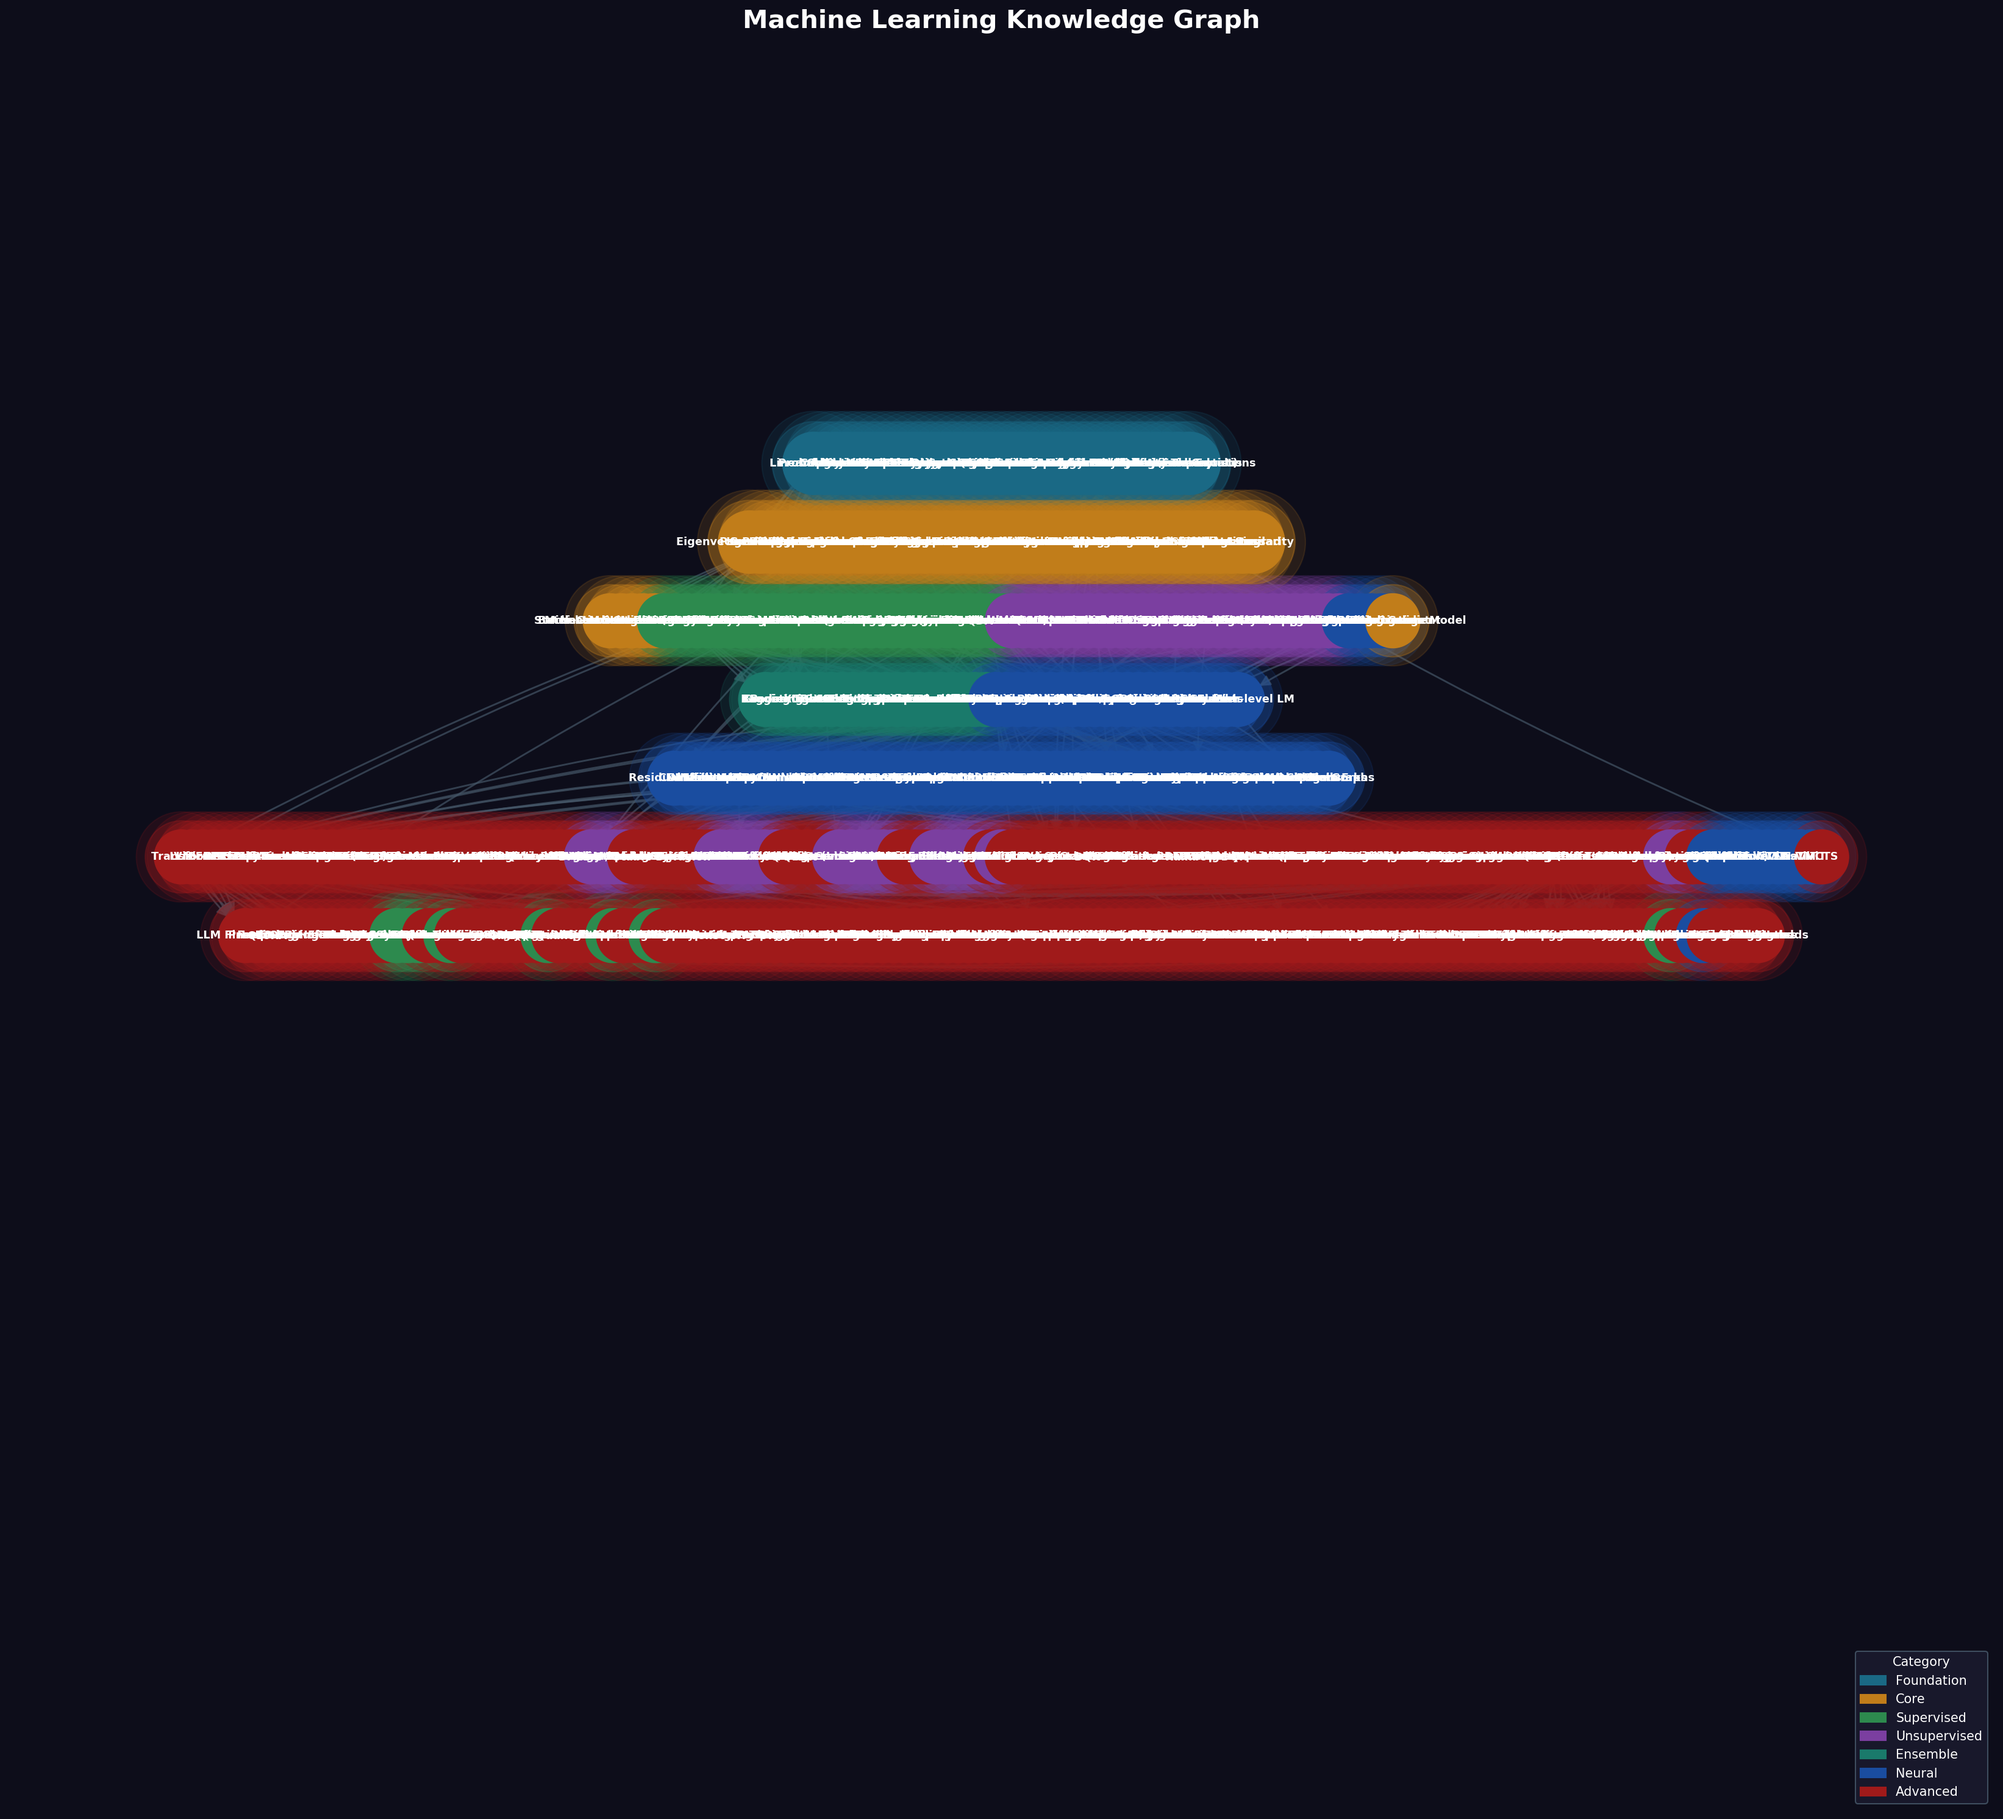
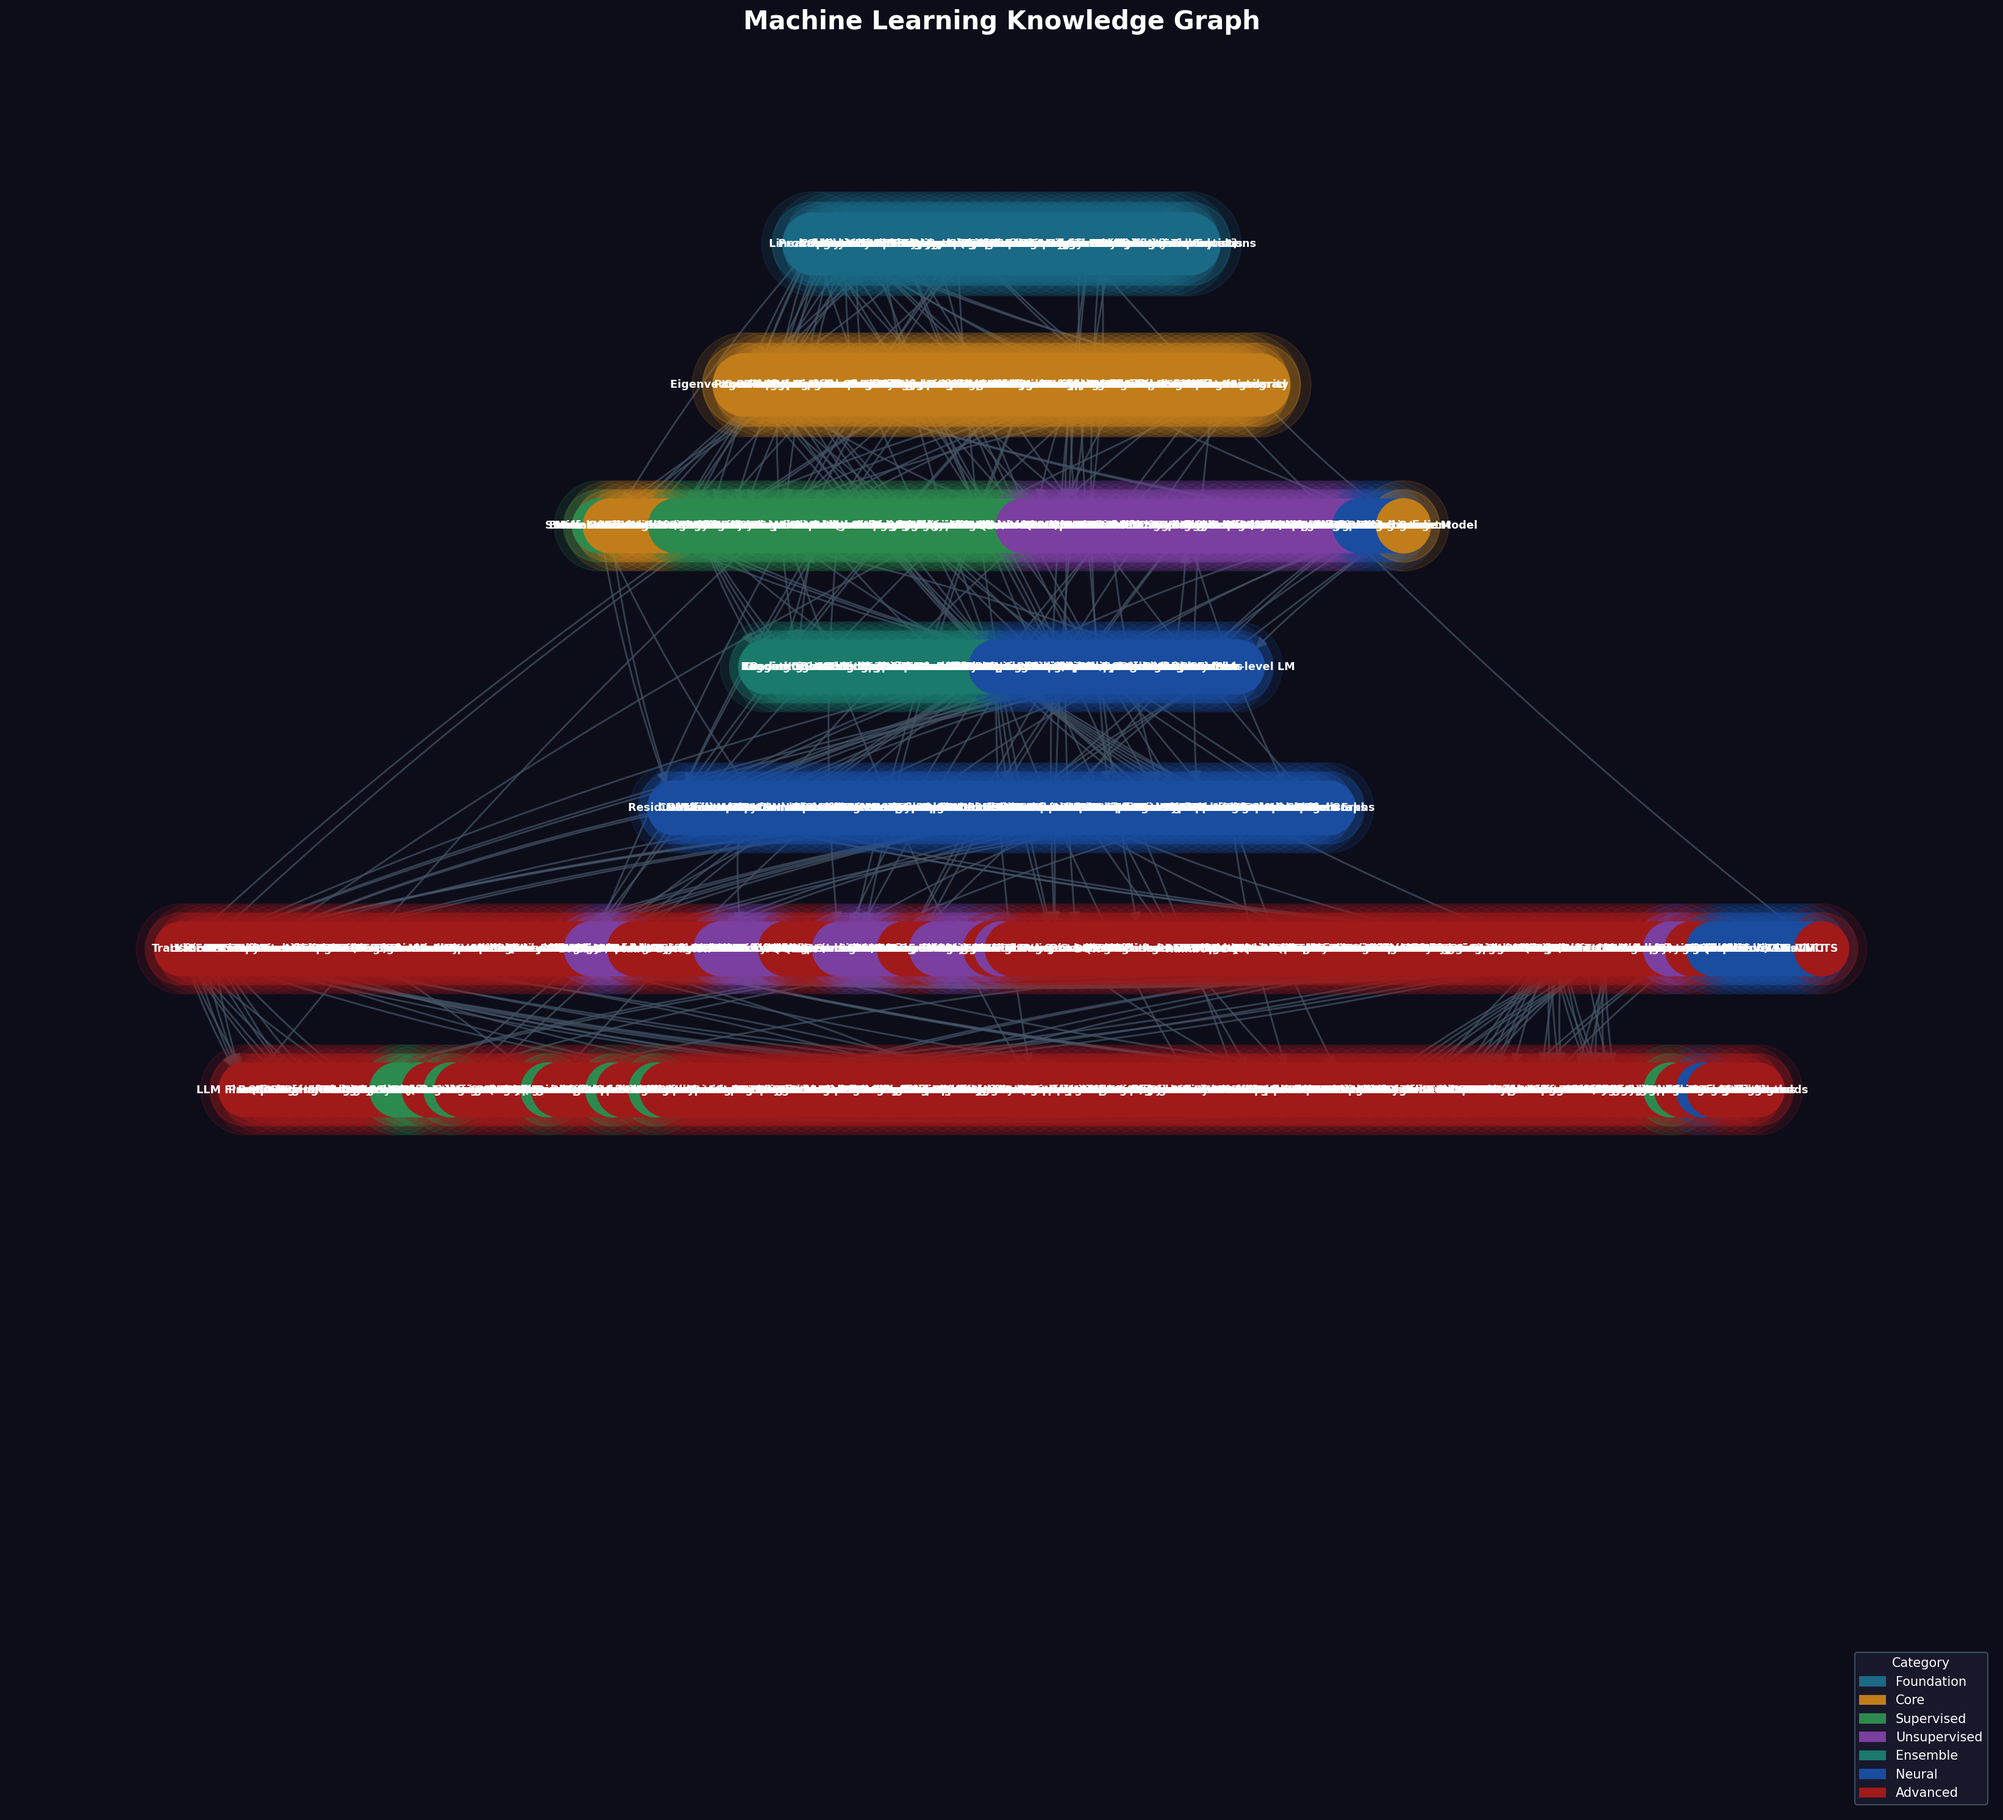
Add Haar Cascades, SIFT, and N-gram nodes
New nodes:
- Haar Cascades (2001, supervised) — Viola-Jones object detection
- SIFT (1999, core) — scale-invariant feature transform
- N-gram (1948, core) — statistical language model foundation

Edges:
- Feature Engineering → SIFT/Haar Cascades → CNNs (classical → deep CV)
- Haar Cascades → R-CNN
- Probability & Stats → N-gram → Bigram LM, Word Embeddings, BPE, Naive Bayes

Total: 557 nodes, 740 edges.

Changed region(s): [[0.0621, 0.0935, 0.9315, 0.6235], [0.2174, 0.3741, 0.2484, 0.4053]]

diff --git a/static/index.html b/static/index.html
@@ -1058,6 +1058,7 @@ fetch('graph.json').then(r => r.json()).then(data => {
     'Active Learning':'Active_learning', 'AdaBoost':'AdaBoost',
     'AdaBoost.R2':'Boosting_(machine_learning)', 'Adapter Layers':'Adapter',
     'Adversarial Attacks':'Adversarial_machine_learning', 'Adversarial Training':'Adversarial_Training',
+    'Haar Cascades':'Viola%E2%80%93Jones_object_detection_framework', 'SIFT':'Scale-invariant_feature_transform', 'N-gram':'N-gram',
     'Autograd':'Automatic_differentiation', 'Bigram Language Model':'Bigram', 'Character-level LM':'Language_model',
     'Affinity Propagation':'Affinity_propagation', 'Agentic Workflows':'GitHub_Agentic_Workflows',
     'Agglomerative Clustering':'Hierarchical_clustering', 'AlexNet':'AlexNet',
@@ -1715,6 +1716,7 @@ fetch('graph.json').then(r => r.json()).then(data => {
     'Backpropagation': 1986, 'Autograd': 1970,
     'Bigram Language Model': 1948, 'Character-level LM': 2015,
     'Regularization': 1963, 'Feature Engineering': 1990,
+    'Haar Cascades': 2001, 'SIFT': 1999, 'N-gram': 1948,
     'Cross-Validation': 1974, 'Bias-Variance Tradeoff': 1992,
     'Hyperparameter Tuning': 1990, 'Data Preprocessing': 1990,
     'Evaluation Metrics': 1990, 'Overfitting': 1992, 'Underfitting': 1992,

diff --git a/src/graph_data.py b/src/graph_data.py
@@ -86,6 +86,13 @@ NODES = {
     "Huber Loss":                  (1, "core"),
     "Cosine Similarity":           (1, "core"),
 
+    # Classical Computer Vision (pre-deep learning)
+    "Haar Cascades":               (2, "supervised"),
+    "SIFT":                        (2, "core"),
+
+    # Classical NLP
+    "N-gram":                      (1, "core"),
+
     # Gradient Descent variants (level 2)
     "Batch Gradient Descent":      (2, "core"),
     "Stochastic Gradient Descent": (2, "core"),
@@ -660,6 +667,17 @@ EDGES = [
     ("EM Algorithm", "Gaussian Mixture Models"),
 
     # Karpathy's teachings edges
+    # Classical NLP edges
+    ("Probability & Stats", "N-gram"), ("N-gram", "Bigram Language Model"),
+    ("N-gram", "Word Embeddings"), ("N-gram", "BPE Tokenization"),
+    ("N-gram", "Naive Bayes"),
+
+    # Classical CV edges
+    ("Feature Engineering", "SIFT"), ("Feature Engineering", "Haar Cascades"),
+    ("SIFT", "CNNs"), ("Haar Cascades", "CNNs"),
+    ("Haar Cascades", "R-CNN"),
+    ("Linear Algebra", "SIFT"),
+
     ("Calculus", "Autograd"), ("Autograd", "Backpropagation"),
     ("Autograd", "Neural Networks"),
     ("Probability & Stats", "Bigram Language Model"), ("Bigram Language Model", "Character-level LM"),
